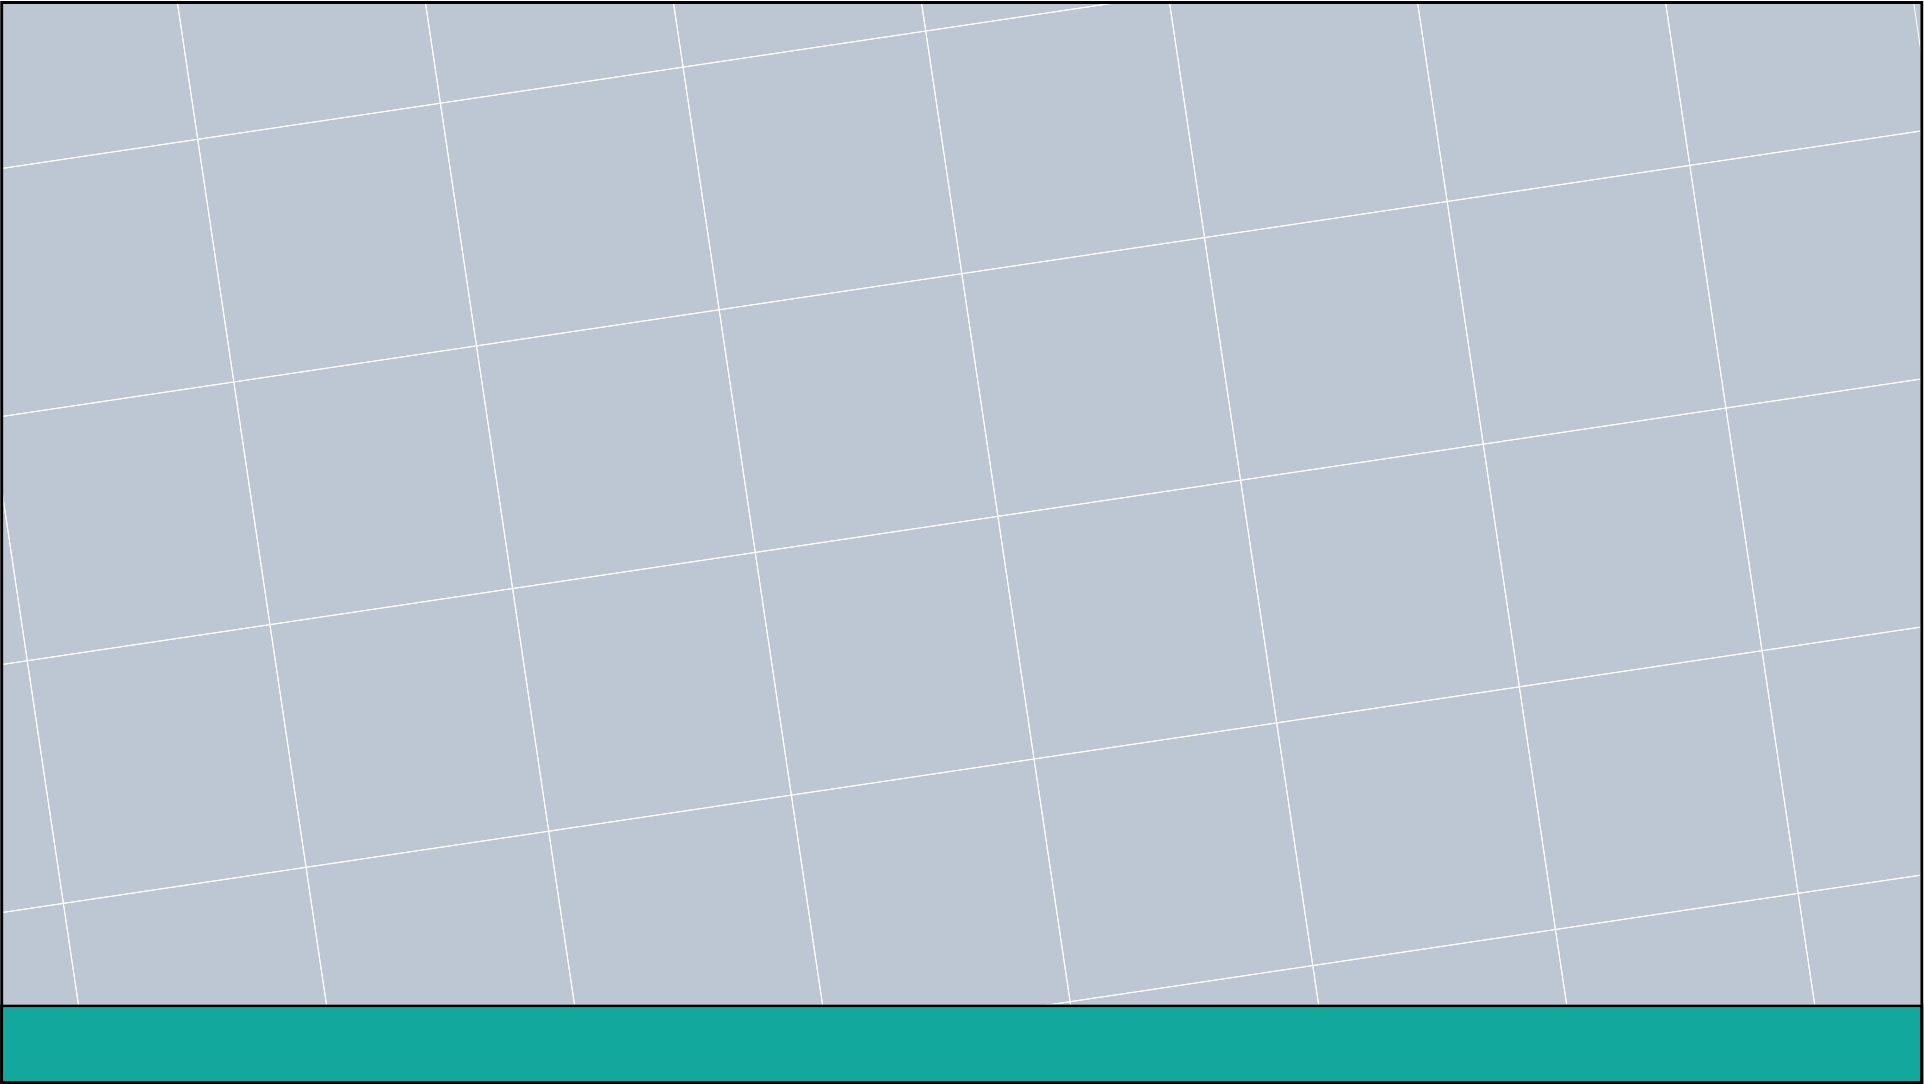
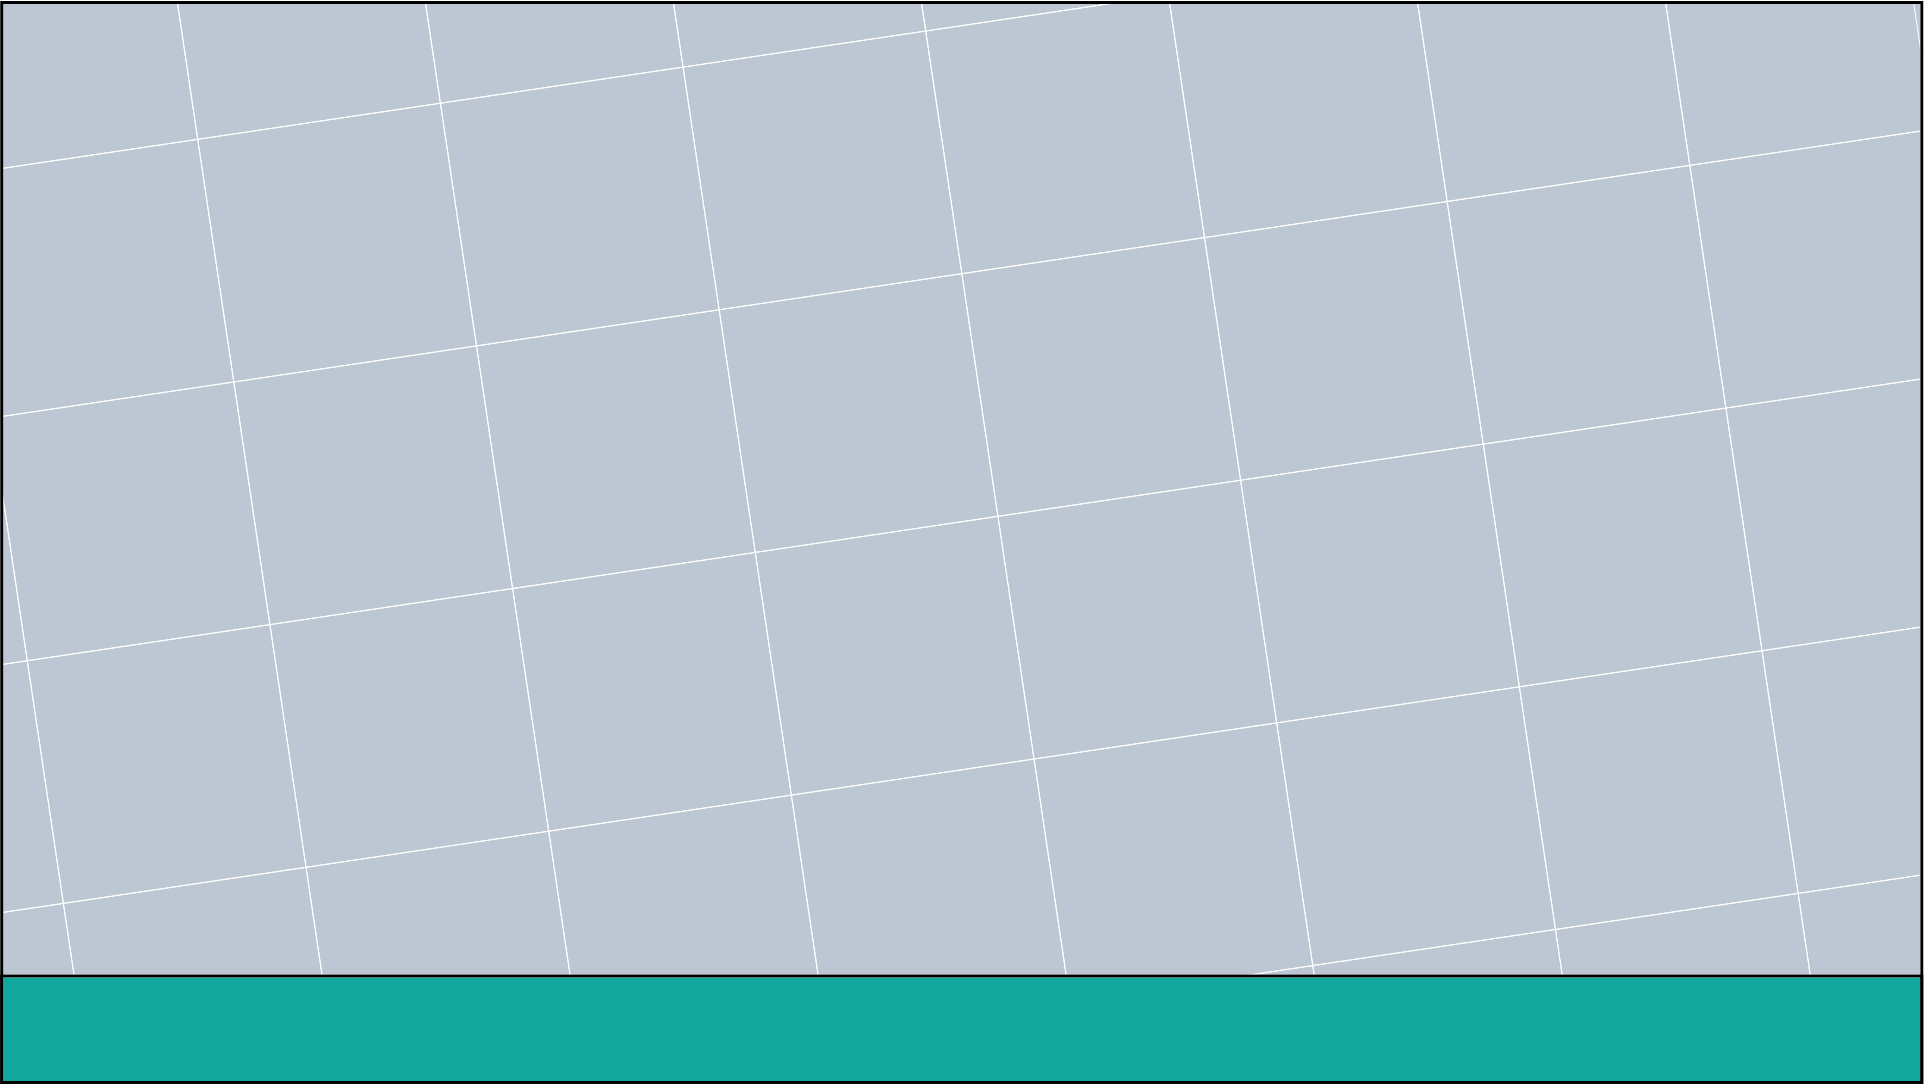
experimenting on using tailwindcss styles

Changed region(s): [[0.0, 0.8828, 1.0, 0.9437]]

diff --git a/src/components/MyWork.jsx b/src/components/MyWork.jsx
@@ -11,8 +11,38 @@ const MyWork = () => {
       <div>
          <style>{iframe}</style>
          <div className="flex justify-center items-center h-screen">
-            <div className="">
-               <img className="relative h-[70%] aspect-video" src={bg} alt="" />
+            <div className="relative w-[70%]">
+               <img className="w-full aspect-video" src={bg} alt="" />
+               <div className="absolute top-0 h-[90%] ">
+                  <div className="p-[2%] ">
+                     <div className="w-[10%]">
+                        <img
+                           className=""
+                           src={folder}
+                           onPointerEnter={(e) =>
+                              (e.currentTarget.src = folderOpen)
+                           }
+                           onPointerLeave={(e) =>
+                              (e.currentTarget.src = folder)
+                           }
+                           alt=""
+                        />
+                        <p className="text-center font-nav">My Portfolio</p>
+                     </div>
+                     <div className="w-[10%]">
+                        <img
+                           src={mail}
+                           onPointerEnter={(e) =>
+                              (e.currentTarget.src = mailOpen)
+                           }
+                           onPointerLeave={(e) => (e.currentTarget.src = mail)}
+                           alt=""
+                        />
+                        <p className="text-center font-nav">Email Me</p>
+                     </div>
+                  </div>
+               </div>
+               <div className="absolute bottom-0 h-[10%]">2</div>
             </div>
          </div>
       </div>
